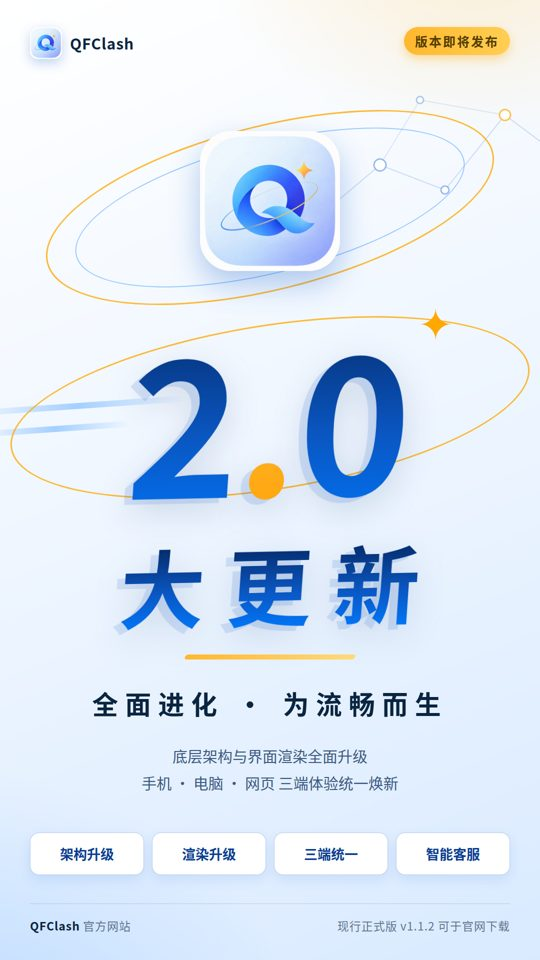
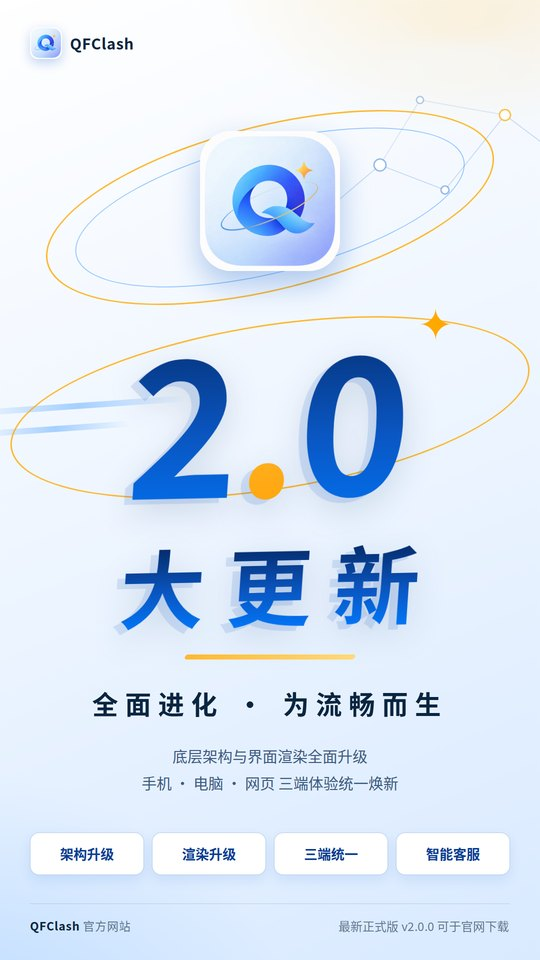
官网翻牌（2.0.0 已发布）：撤全部「版本即将发布」徽标（宣传区/海报墙/5 张海报图内，海报以原图修图去徽标、页脚改已发布口径，设计与文案不动）；宣传文案改已发布口径（双语同步）；全站下载切 v2.0.0 真包（APK 63543228B/EXE 45015091B/ZIP 71154466B，大小文案按实字节 60.6/42.9/67.9 MB）；更新日志加 v2.0.0 条（八大项，置顶）；清除 forum.js 死键 forum_soon；缓存标记根站升 20261025i、webapp 升 ui26；功能保全对照零丢失（仅定版徽标键与下载链接按令变更）

Changed region(s): [[0.7407, 0.0, 0.9481, 0.0625], [0.6222, 0.9375, 0.8296, 0.9688], [0.8593, 0.9375, 0.9481, 0.9688]]

diff --git a/index.html b/index.html
@@ -9,7 +9,7 @@
 <title>QFClash 官方网站</title>
 <meta name="description" content="QFClash — 基于 mihomo 内核的网络代理客户端，支持 Android 与 Windows 双平台。">
 <link rel="icon" href="assets/icon.png">
-<link rel="stylesheet" href="assets/style.css?v=20261025h">
+<link rel="stylesheet" href="assets/style.css?v=20261025i">
 </head>
 <body>
 
@@ -34,24 +34,23 @@
   </div>
 </header>
 
-<section class="promo" id="v2" aria-label="QFClash 2.0 大更新预告">
-  <span class="promo-badge" data-i18n="promo_badge">版本即将发布</span>
+<section class="promo" id="v2" aria-label="QFClash 2.0 大更新">
   <div class="wrap promo-in">
     <div class="promo-medal"><img src="assets/icon.png" alt="QFClash"></div>
     <p class="promo-eyebrow">QFCLASH 2.0</p>
     <div class="promo-title"><span class="promo-num">2<span class="promo-dot">.</span>0</span><span class="promo-big" data-i18n="promo_big">大更新</span></div>
     <p class="promo-slogan" data-i18n="promo_slogan">全面进化 · 为流畅而生</p>
-    <p class="promo-desc" data-i18n="promo_desc">QFClash 2.0 正在开发中：底层架构与界面渲染全面升级，手机、电脑、网页三端体验统一，智能客服全面开放。新版本发布后，本页面将第一时间提供下载。</p>
+    <p class="promo-desc" data-i18n="promo_desc">QFClash 2.0 现已正式发布：底层架构与界面渲染全面升级，手机、电脑、网页三端体验统一，智能客服全面开放。最新版本 v2.0.0 现已提供下载。</p>
     <div class="promo-pillars">
       <span data-i18n="promo_p1">底层架构升级</span>
       <span data-i18n="promo_p2">渲染与流畅升级</span>
       <span data-i18n="promo_p3">三端统一体验</span>
       <span data-i18n="promo_p4">智能客服开放</span>
     </div>
-    <p class="promo-now" data-i18n="promo_now">当前正式版为 v1.1.2，可继续下载使用：</p>
+    <p class="promo-now" data-i18n="promo_now">最新版本 v2.0.0 已正式发布，欢迎下载使用：</p>
     <div class="dl-buttons">
-      <a class="btn btn-primary" href="https://github.com/a718983610-sys/FlClash/releases/download/v1.1.2/QFClash-Android-v1.1.2.apk" rel="noopener" data-dl="android" data-i18n="hero_dl_android">下载 Android 版</a>
-      <a class="btn btn-ghost" href="https://github.com/a718983610-sys/FlClash/releases/download/v1.1.2/QFClash-Windows-v1.1.2.exe" rel="noopener" data-dl="windows" data-i18n="hero_dl_windows">下载 Windows 版</a>
+      <a class="btn btn-primary" href="https://github.com/a718983610-sys/FlClash/releases/download/v2.0.0/QFClash-Android-v2.0.0.apk" rel="noopener" data-dl="android" data-i18n="hero_dl_android">下载 Android 版</a>
+      <a class="btn btn-ghost" href="https://github.com/a718983610-sys/FlClash/releases/download/v2.0.0/QFClash-Windows-v2.0.0.exe" rel="noopener" data-dl="windows" data-i18n="hero_dl_windows">下载 Windows 版</a>
     </div>
   </div>
   <div class="promo-fan" aria-hidden="true">
@@ -68,7 +67,7 @@
 
 <section class="promo-posters" aria-label="宣传海报">
   <div class="wrap">
-    <h2><span data-i18n="promo_posters_t">宣传海报</span><span class="promo-badge" data-i18n="promo_badge">版本即将发布</span></h2>
+    <h2><span data-i18n="promo_posters_t">宣传海报</span></h2>
     <p class="sec-sub" data-i18n="promo_posters_sub">QFClash 2.0 大更新主题海报，点击可查看大图，欢迎保存与分享。</p>
     <div class="poster-grid">
       <a href="assets/promo/poster-main.png" target="_blank" rel="noopener"><img src="assets/promo/poster-main-web.jpg" alt="主海报：QFClash 2.0 大更新" loading="lazy"></a>
@@ -87,10 +86,10 @@
     <p class="tagline" data-i18n="hero_tagline">简洁、强大、全中文的网络代理客户端</p>
     <p class="sub" data-i18n="hero_sub">QFClash 基于 mihomo 内核开发，支持 Android 与 Windows 双平台。导入订阅即可使用，节点选择灵活，功能完整不删减。</p>
     <div class="dl-buttons">
-      <a class="btn btn-primary" href="https://github.com/a718983610-sys/FlClash/releases/download/v1.1.2/QFClash-Android-v1.1.2.apk" rel="noopener" data-dl="android" data-i18n="hero_dl_android">下载 Android 版</a>
-      <a class="btn btn-ghost" href="https://github.com/a718983610-sys/FlClash/releases/download/v1.1.2/QFClash-Windows-v1.1.2.exe" rel="noopener" data-dl="windows" data-i18n="hero_dl_windows">下载 Windows 版</a>
+      <a class="btn btn-primary" href="https://github.com/a718983610-sys/FlClash/releases/download/v2.0.0/QFClash-Android-v2.0.0.apk" rel="noopener" data-dl="android" data-i18n="hero_dl_android">下载 Android 版</a>
+      <a class="btn btn-ghost" href="https://github.com/a718983610-sys/FlClash/releases/download/v2.0.0/QFClash-Windows-v2.0.0.exe" rel="noopener" data-dl="windows" data-i18n="hero_dl_windows">下载 Windows 版</a>
     </div>
-    <p class="hero-meta"><span data-i18n="meta_current">当前版本</span> v1.1.2 · <span data-i18n="meta_android_pkg">Android 安装包</span> 60.5 MB · <span data-i18n="meta_windows_inst">Windows 安装版</span> 42.9 MB · <span data-i18n="meta_portable">便携版</span> 67.8 MB</p>
+    <p class="hero-meta"><span data-i18n="meta_current">当前版本</span> v2.0.0 · <span data-i18n="meta_android_pkg">Android 安装包</span> 60.6 MB · <span data-i18n="meta_windows_inst">Windows 安装版</span> 42.9 MB · <span data-i18n="meta_portable">便携版</span> 67.9 MB</p>
     <p class="note" data-i18n="hero_note">请仅通过本页面下载 QFClash，以确保安装包完整可靠。</p>
   </div>
 </div>
@@ -196,16 +195,16 @@
         <div class="plat"><svg width="1em" height="1em" viewBox="0 0 24 24" fill="#3DDC84" role="img" aria-label="Android"><path d="M6 18c0 .55.45 1 1 1h1v3.5c0 .83.67 1.5 1.5 1.5s1.5-.67 1.5-1.5V19h2v3.5c0 .83.67 1.5 1.5 1.5s1.5-.67 1.5-1.5V19h1c.55 0 1-.45 1-1V8H6v10zM3.5 8C2.67 8 2 8.67 2 9.5v7c0 .83.67 1.5 1.5 1.5S5 17.33 5 16.5v-7C5 8.67 4.33 8 3.5 8zm17 0c-.83 0-1.5.67-1.5 1.5v7c0 .83.67 1.5 1.5 1.5s1.5-.67 1.5-1.5v-7c0-.83-.67-1.5-1.5-1.5zm-4.97-5.84l1.3-1.3c.2-.2.2-.51 0-.71-.2-.2-.51-.2-.71 0l-1.48 1.48C13.85 1.23 12.95 1 12 1c-.96 0-1.86.23-2.66.63L7.85.15c-.2-.2-.51-.2-.71 0-.2.2-.2.51 0 .71l1.31 1.31C6.97 3.26 6 5.01 6 7h12c0-1.99-.97-3.75-2.47-4.84zM10 5H9V4h1v1zm5 0h-1V4h1v1z"/></svg></div>
         <h3 data-i18n="dl_android_t">Android 版</h3>
         <p data-i18n="dl_android_p">适用于 Android 手机与平板设备，下载 APK 安装包后直接安装。</p>
-        <p class="dl-meta"><span data-i18n="meta_version">版本</span> v1.1.2 · <span data-i18n="meta_apk_pkg">APK 安装包</span> · 60.5 MB</p>
-        <a class="btn btn-primary" href="https://github.com/a718983610-sys/FlClash/releases/download/v1.1.2/QFClash-Android-v1.1.2.apk" rel="noopener" data-dl="android" data-i18n="dl_btn_android">下载最新版</a>
+        <p class="dl-meta"><span data-i18n="meta_version">版本</span> v2.0.0 · <span data-i18n="meta_apk_pkg">APK 安装包</span> · 60.6 MB</p>
+        <a class="btn btn-primary" href="https://github.com/a718983610-sys/FlClash/releases/download/v2.0.0/QFClash-Android-v2.0.0.apk" rel="noopener" data-dl="android" data-i18n="dl_btn_android">下载最新版</a>
       </div>
       <div class="dl-card reveal">
         <div class="plat"><svg width="1em" height="1em" viewBox="0 0 24 24" fill="#00adef" role="img" aria-label="Windows"><path d="M0 3.449L9.75 2.1v9.451H0m10.949-9.602L24 0v11.4H10.949M0 12.6h9.75v9.451L0 20.699M10.949 12.6H24V24l-12.9-1.801"/></svg></div>
         <h3 data-i18n="dl_windows_t">Windows 版</h3>
         <p data-i18n="dl_windows_p">适用于 Windows 电脑，提供安装版与便携版两种形式，可按需选择。</p>
-        <p class="dl-meta"><span data-i18n="meta_version">版本</span> v1.1.2 · <span data-i18n="meta_exe_inst">安装版 EXE</span> · 42.9 MB</p>
-        <a class="btn btn-primary" href="https://github.com/a718983610-sys/FlClash/releases/download/v1.1.2/QFClash-Windows-v1.1.2.exe" rel="noopener" data-dl="windows" data-i18n="dl_btn_windows">下载最新版</a>
-        <p style="margin-top:12px;margin-bottom:0"><a href="https://github.com/a718983610-sys/FlClash/releases/download/v1.1.2/QFClash-Windows-v1.1.2.zip" rel="noopener" data-dl="windows-zip" data-i18n="dl_zip_alt">或下载 ZIP 压缩包（免安装）</a><span class="dl-size">（67.8 MB）</span></p>
+        <p class="dl-meta"><span data-i18n="meta_version">版本</span> v2.0.0 · <span data-i18n="meta_exe_inst">安装版 EXE</span> · 42.9 MB</p>
+        <a class="btn btn-primary" href="https://github.com/a718983610-sys/FlClash/releases/download/v2.0.0/QFClash-Windows-v2.0.0.exe" rel="noopener" data-dl="windows" data-i18n="dl_btn_windows">下载最新版</a>
+        <p style="margin-top:12px;margin-bottom:0"><a href="https://github.com/a718983610-sys/FlClash/releases/download/v2.0.0/QFClash-Windows-v2.0.0.zip" rel="noopener" data-dl="windows-zip" data-i18n="dl_zip_alt">或下载 ZIP 压缩包（免安装）</a><span class="dl-size">（67.9 MB）</span></p>
       </div>
     </div>
     <p class="sec-sub" style="margin-top:26px" data-i18n="dl_safe">每个安装包的 SHA-256 校验值随版本公告在官方论坛公布，下载后可对照校验，确保文件完整无误。</p>
@@ -273,12 +272,12 @@
 </footer>
 
 <div class="sticky-dl" aria-label="快速下载">
-  <div class="sticky-info"><strong>QFClash</strong><span>v1.1.2</span></div>
-  <a class="sticky-btn sticky-primary" href="https://github.com/a718983610-sys/FlClash/releases/download/v1.1.2/QFClash-Android-v1.1.2.apk" rel="noopener" data-dl="android" data-i18n="hero_dl_android">下载 Android 版</a>
-  <a class="sticky-btn sticky-ghost" href="https://github.com/a718983610-sys/FlClash/releases/download/v1.1.2/QFClash-Windows-v1.1.2.exe" rel="noopener" data-dl="windows" data-i18n="hero_dl_windows">Windows 版</a>
+  <div class="sticky-info"><strong>QFClash</strong><span>v2.0.0</span></div>
+  <a class="sticky-btn sticky-primary" href="https://github.com/a718983610-sys/FlClash/releases/download/v2.0.0/QFClash-Android-v2.0.0.apk" rel="noopener" data-dl="android" data-i18n="hero_dl_android">下载 Android 版</a>
+  <a class="sticky-btn sticky-ghost" href="https://github.com/a718983610-sys/FlClash/releases/download/v2.0.0/QFClash-Windows-v2.0.0.exe" rel="noopener" data-dl="windows" data-i18n="hero_dl_windows">Windows 版</a>
 </div>
 
-<script src="assets/auth.js?v=20261025d"></script>
-<script src="assets/app.js?v=20261025e"></script>
+<script src="assets/auth.js?v=20261025i"></script>
+<script src="assets/app.js?v=20261025i"></script>
 </body>
 </html>

diff --git a/assets/app.js b/assets/app.js
@@ -22,12 +22,11 @@ const I18N = {
     forum_banner_t: "官方论坛 · 用户社区",
     forum_banner_p: "欢迎来到 QFClash 官方论坛。这里是用户交流使用经验、反馈问题与提出建议的社区，官方公告亦在此发布。登录后即可发帖与回复，欢迎参与交流。",
     forum_banner_btn: "进入论坛",
-    promo_badge: "版本即将发布",
     promo_big: "大更新",
     promo_slogan: "全面进化 · 为流畅而生",
-    promo_desc: "QFClash 2.0 正在开发中：底层架构与界面渲染全面升级，手机、电脑、网页三端体验统一，智能客服全面开放。新版本发布后，本页面将第一时间提供下载。",
+    promo_desc: "QFClash 2.0 现已正式发布：底层架构与界面渲染全面升级，手机、电脑、网页三端体验统一，智能客服全面开放。最新版本 v2.0.0 现已提供下载。",
     promo_p1: "底层架构升级", promo_p2: "渲染与流畅升级", promo_p3: "三端统一体验", promo_p4: "智能客服开放",
-    promo_now: "当前正式版为 v1.1.2，可继续下载使用：",
+    promo_now: "最新版本 v2.0.0 已正式发布，欢迎下载使用：",
     promo_posters_t: "宣传海报",
     promo_posters_sub: "QFClash 2.0 大更新主题海报，点击可查看大图，欢迎保存与分享。",
     hero_tagline: "简洁、强大、全中文的网络代理客户端",
@@ -100,12 +99,11 @@ const I18N = {
     forum_banner_t: "Official Forum · Community",
     forum_banner_p: "Welcome to the QFClash official forum — the community for sharing experience, reporting issues, and making suggestions. Official announcements are also published here. Sign in to post and reply.",
     forum_banner_btn: "Visit the Forum",
-    promo_badge: "Coming Soon",
     promo_big: "Major Update",
     promo_slogan: "Fully Evolved · Built for Smoothness",
-    promo_desc: "QFClash 2.0 is in development: a fully upgraded core architecture and rendering engine, a unified experience across Android, Windows and Web, and smart customer support open to everyone. Downloads will be available on this page at launch.",
+    promo_desc: "QFClash 2.0 is now officially released: a fully upgraded core architecture and rendering engine, a unified experience across Android, Windows and Web, and smart customer support open to everyone. Version 2.0.0 is now available for download.",
     promo_p1: "Core Architecture", promo_p2: "Rendering & Smoothness", promo_p3: "Unified on All Platforms", promo_p4: "Support for Everyone",
-    promo_now: "The current release is v1.1.2 and remains available for download:",
+    promo_now: "The latest release, v2.0.0, is now available for download:",
     promo_posters_t: "Posters",
     promo_posters_sub: "Official posters for the QFClash 2.0 Major Update. Tap to view full size.",
     hero_tagline: "A clean, powerful network proxy client for Android and Windows",

diff --git a/changelog.html b/changelog.html
@@ -9,7 +9,7 @@
 <title>QFClash 更新日志</title>
 <meta name="description" content="QFClash 历次正式版本的更新说明与发布日期。">
 <link rel="icon" href="assets/icon.png">
-<link rel="stylesheet" href="assets/style.css?v=20261025h">
+<link rel="stylesheet" href="assets/style.css?v=20261025i">
 <style>
   .ver{border:1px solid var(--line);border-radius:14px;padding:20px 22px;margin:0 0 18px;background:var(--card,#fff)}
   .ver h2{font-size:21px;margin:0 0 2px;text-align:left}
@@ -49,6 +49,21 @@
   <a class="back" href="index.html">← 返回首页</a>
   <h1>更新日志</h1>
   <p class="meta">QFClash 历次正式版本的更新说明，按发布时间从新到旧排列。安卓版与 Windows 版同版本同步发布。</p>
+
+  <div class="ver">
+    <h2>v2.0.0</h2>
+    <p class="vdate">发布日期：2026 年 10 月 25 日</p>
+    <ul>
+      <li>全新大版本：底层架构与渲染系统性升级，应用启动与页面加载路径优化，整体运行流畅度显著提升。</li>
+      <li>规则模式全面修复：导入订阅后策略分组完整显示，节点选择与切换恢复正常，全局、规则、直连三种模式均可完整使用。</li>
+      <li>三端功能与界面统一：安卓、Windows 与网页版的功能与界面实现统一，好友、论坛与聊天在各端保持一致。</li>
+      <li>智能客服全面开放：未登录状态下同样可以咨询问题；账号处于封禁、冻结等状态时依然可以使用，并可转接人工服务。</li>
+      <li>订阅与节点详情全新上线：订阅名称、订阅地址、上次更新时间与自动更新设置集中呈现；节点名称、类型、服务器、端口与协议参数完整展示。</li>
+      <li>登录状态长效保持：在记住的设备上登录后，30 天内无需反复登录；升级到新版本后登录状态不再丢失。</li>
+      <li>新增退出登录：退出后应用回到未登录状态，服务端会话同步撤销，本地订阅与配置完整保留。</li>
+      <li>软件内更新显示下载进度：全程显示下载进度百分比与已下载大小，可随时取消；网络异常时自动重试，失败后给出明确提示。</li>
+    </ul>
+  </div>
 
   <div class="ver">
     <h2>v1.1.2</h2>
@@ -116,7 +131,7 @@
   </div>
 </footer>
 
-<script src="assets/auth.js?v=20261025d"></script>
+<script src="assets/auth.js?v=20261025i"></script>
 <script>
 // 更新日志折叠：最新 10 条直接显示，第 11 条起收进折叠区，点按钮展开/收起。
 // 条目不足 11 条时什么都不加，页面与原来完全一致；脚本失效时全部条目照常显示。

diff --git a/assets/forum.js b/assets/forum.js
@@ -17,7 +17,6 @@ const I18N = {
     profile_title: "设置昵称", nick_ph: "请输入昵称", save: "保存",
     set_nick: "设置昵称",
     board_all: "全部", loading: "正在加载……",
-    forum_soon: "论坛功能即将开放，敬请期待。",
     load_fail: "内容加载失败，请稍后重试。",
     empty_posts: "本板块暂无帖子。", empty_replies: "暂无回复。",
     need_login_post: "发布帖子前请先登录。",
@@ -60,7 +59,6 @@ const I18N = {
     profile_title: "Set Nickname", nick_ph: "Enter a nickname", save: "Save",
     set_nick: "Set Nickname",
     board_all: "All", loading: "Loading…",
-    forum_soon: "The forum is coming soon. Stay tuned.",
     load_fail: "Failed to load. Please try again later.",
     empty_posts: "There are no posts in this board yet.", empty_replies: "No replies yet.",
     need_login_post: "Please sign in before posting.",

diff --git a/webapp/index.html b/webapp/index.html
@@ -5,7 +5,7 @@
 <meta name="viewport" content="width=device-width, initial-scale=1">
 <title>QFClash 网页版</title>
 <link rel="icon" href="assets/favicon.png">
-<link rel="stylesheet" href="assets/app.min.css?v=20261025-ui25">
+<link rel="stylesheet" href="assets/app.min.css?v=20261025-ui26">
 <script src="https://accounts.google.com/gsi/client" async defer></script>
 <script type="importmap">
 { "imports": {
@@ -70,7 +70,7 @@
   <span>QFClash 网页版 · 与客户端共用同一账号体系</span>
 </footer>
 
-<script type="module" src="assets/crypto-adapter.js?v=20261025-ui25"></script>
-<script defer src="assets/app.min.js?v=20261025-ui25"></script>
+<script type="module" src="assets/crypto-adapter.js?v=20261025-ui26"></script>
+<script defer src="assets/app.min.js?v=20261025-ui26"></script>
 </body>
 </html>

diff --git a/faq.html b/faq.html
@@ -9,7 +9,7 @@
 <title>QFClash 常见问题</title>
 <meta name="description" content="QFClash 常见问题解答：账号与登录、连接与节点、订阅、积分与兑换、更新、封禁与申诉、论坛与聊天。">
 <link rel="icon" href="assets/icon.png">
-<link rel="stylesheet" href="assets/style.css?v=20261025h">
+<link rel="stylesheet" href="assets/style.css?v=20261025i">
 <style>
   .faq-cat{font-size:19px;margin:30px 0 6px;text-align:left}
   details.faq{border:1px solid var(--line);border-radius:12px;margin:10px 0;background:var(--card,#fff)}
@@ -330,6 +330,6 @@
   </div>
 </footer>
 
-<script src="assets/auth.js?v=20261025d"></script>
+<script src="assets/auth.js?v=20261025i"></script>
 </body>
 </html>

diff --git a/security.html b/security.html
@@ -9,7 +9,7 @@
 <title>QFClash 安全中心</title>
 <meta name="description" content="QFClash 安全中心 — 修改密码、更换邮箱、登录设备、通行密钥与注销账号。">
 <link rel="icon" href="assets/icon.png">
-<link rel="stylesheet" href="assets/style.css?v=20261025h">
+<link rel="stylesheet" href="assets/style.css?v=20261025i">
 </head>
 <body>
 
@@ -214,7 +214,7 @@
   </div>
 </footer>
 
-<script src="assets/auth.js?v=20261025d"></script>
-<script src="assets/security.js?v=20261025d"></script>
+<script src="assets/auth.js?v=20261025i"></script>
+<script src="assets/security.js?v=20261025i"></script>
 </body>
 </html>

diff --git a/agreement.html b/agreement.html
@@ -8,7 +8,7 @@
 <meta http-equiv="Expires" content="0">
 <title>QFClash 用户协议</title>
 <link rel="icon" href="assets/icon.png">
-<link rel="stylesheet" href="assets/style.css?v=20261025h">
+<link rel="stylesheet" href="assets/style.css?v=20261025i">
 <style>
   .lang-en{display:none}
   .region-alert{background:#f2f7ff;border:1px solid #cfe3ff;border-left:4px solid #007AFF;border-radius:8px;padding:10px 14px;font-size:14.5px;line-height:1.7;margin:14px 0 18px}
@@ -452,6 +452,6 @@
   });
 })();
 </script>
-<script src="assets/auth.js?v=20261025d"></script>
+<script src="assets/auth.js?v=20261025i"></script>
 </body>
 </html>

diff --git a/forum.html b/forum.html
@@ -9,7 +9,7 @@
 <title>QFClash 论坛</title>
 <meta name="description" content="QFClash 官方论坛 — 用户交流与互助社区。">
 <link rel="icon" href="assets/icon.png">
-<link rel="stylesheet" href="assets/style.css?v=20261025h">
+<link rel="stylesheet" href="assets/style.css?v=20261025i">
 </head>
 <body>
 
@@ -118,7 +118,7 @@
   </div>
 </footer>
 
-<script src="assets/auth.js?v=20261025d"></script>
-<script src="assets/forum.js?v=20261025d"></script>
+<script src="assets/auth.js?v=20261025i"></script>
+<script src="assets/forum.js?v=20261025i"></script>
 </body>
 </html>

diff --git a/privacy.html b/privacy.html
@@ -8,7 +8,7 @@
 <meta http-equiv="Expires" content="0">
 <title>QFClash 隐私说明</title>
 <link rel="icon" href="assets/icon.png">
-<link rel="stylesheet" href="assets/style.css?v=20261025h">
+<link rel="stylesheet" href="assets/style.css?v=20261025i">
 <style>
   .lang-en{display:none}
   .doc h3{font-size:16.5px;margin:22px 0 6px}
@@ -269,6 +269,6 @@
   });
 })();
 </script>
-<script src="assets/auth.js?v=20261025d"></script>
+<script src="assets/auth.js?v=20261025i"></script>
 </body>
 </html>
